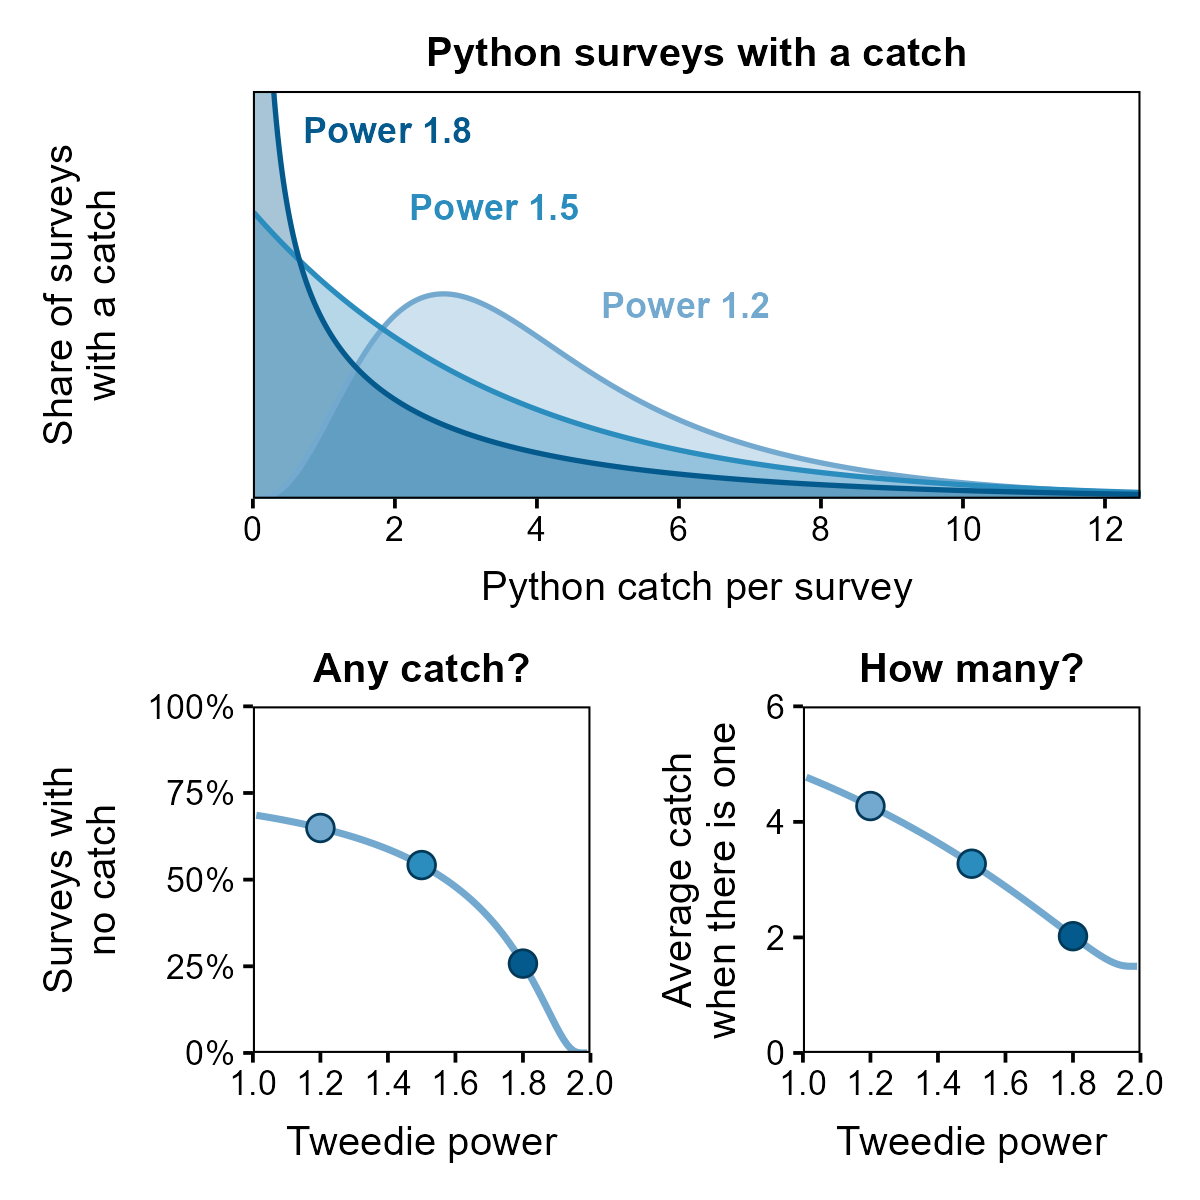
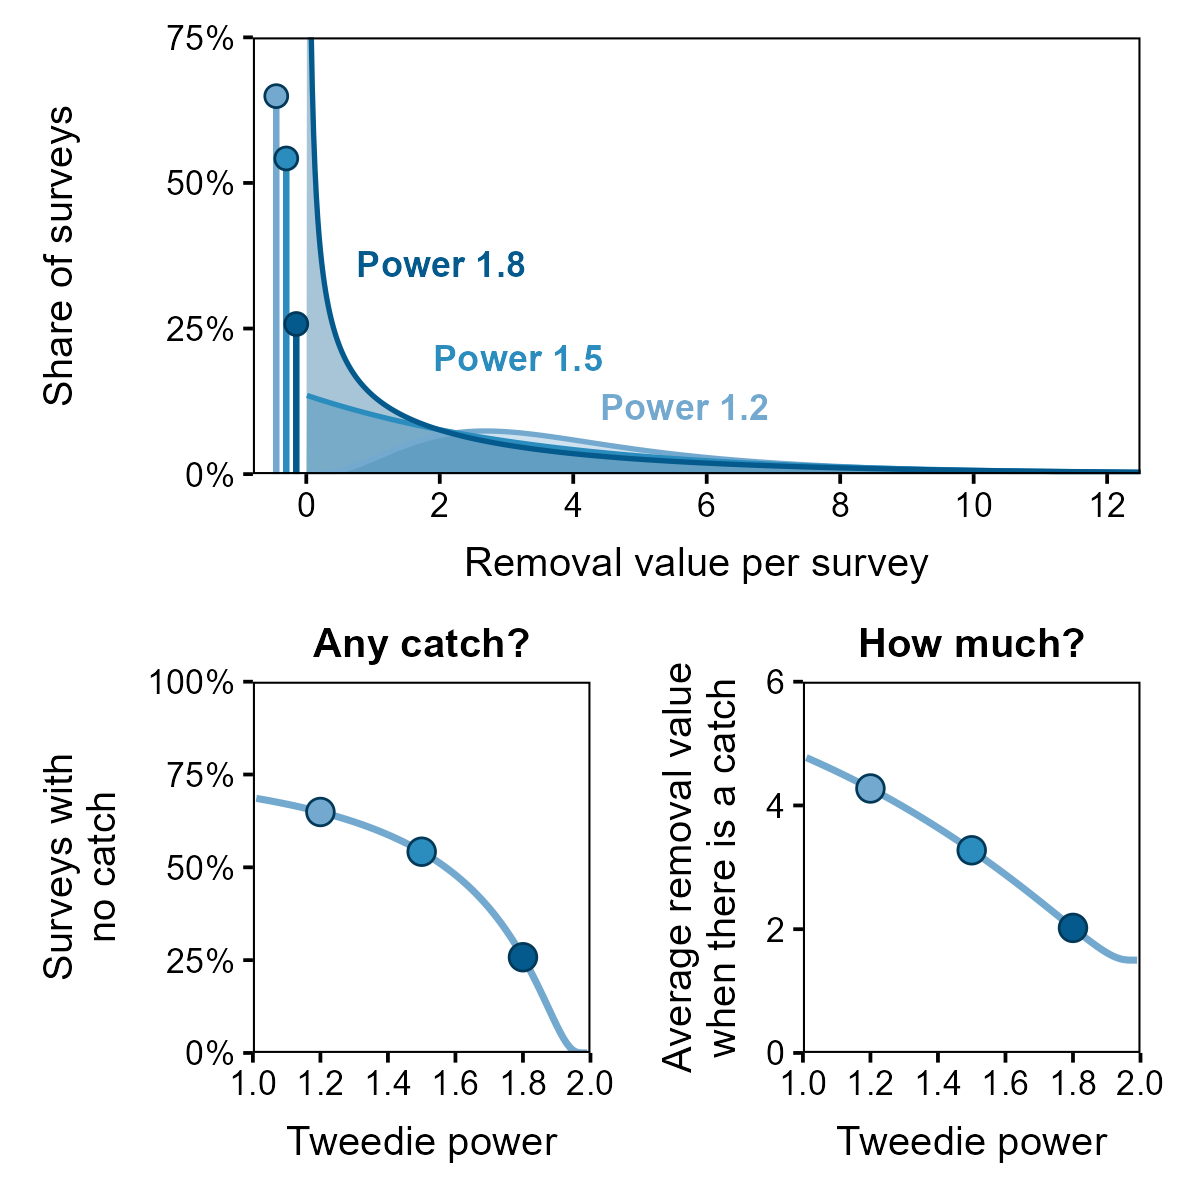
Show exact zeros in the Tweedie power figure
The top panel showed only surveys with a catch, so the power 1.8 curve looked like it piled up at zero. Each power now gets a stick at zero for its share of surveys with no catch, and its curve is scaled to the share with a catch, so the two add to 100%. The x axis is the removal value per survey, and the README explains both.

Checked that each stick plus curve area is 1 and that all three powers share an average of 1.5.

diff --git a/tuned-loss-functions/README.md b/tuned-loss-functions/README.md
@@ -4,7 +4,7 @@ Most survey data are mostly zeros. Most surveys catch nothing, and the ones that
 
 ![Three Tweedie distributions with the same average catch, and what the power does to the share of surveys with no catch and to the average catch when there is one](tweedie_power_figure.png)
 
-A Tweedie response answers two questions about a survey in one distribution. Did it catch anything, and how much did it catch when it did? The power sets the balance between the two. All three curves above have the same average catch.
+A Tweedie response answers two questions about a survey in one distribution. Did it catch anything, and how much did it catch when it did? The power sets the balance between the two. All three distributions above have the same average. In the top panel each stick at zero is the share of surveys with no catch, and the curve beside it is the surveys with a catch. The removal value on its axis is the paper's weighted removal index, which is a continuous amount and not a count of pythons.
 
 ## What is here
 
